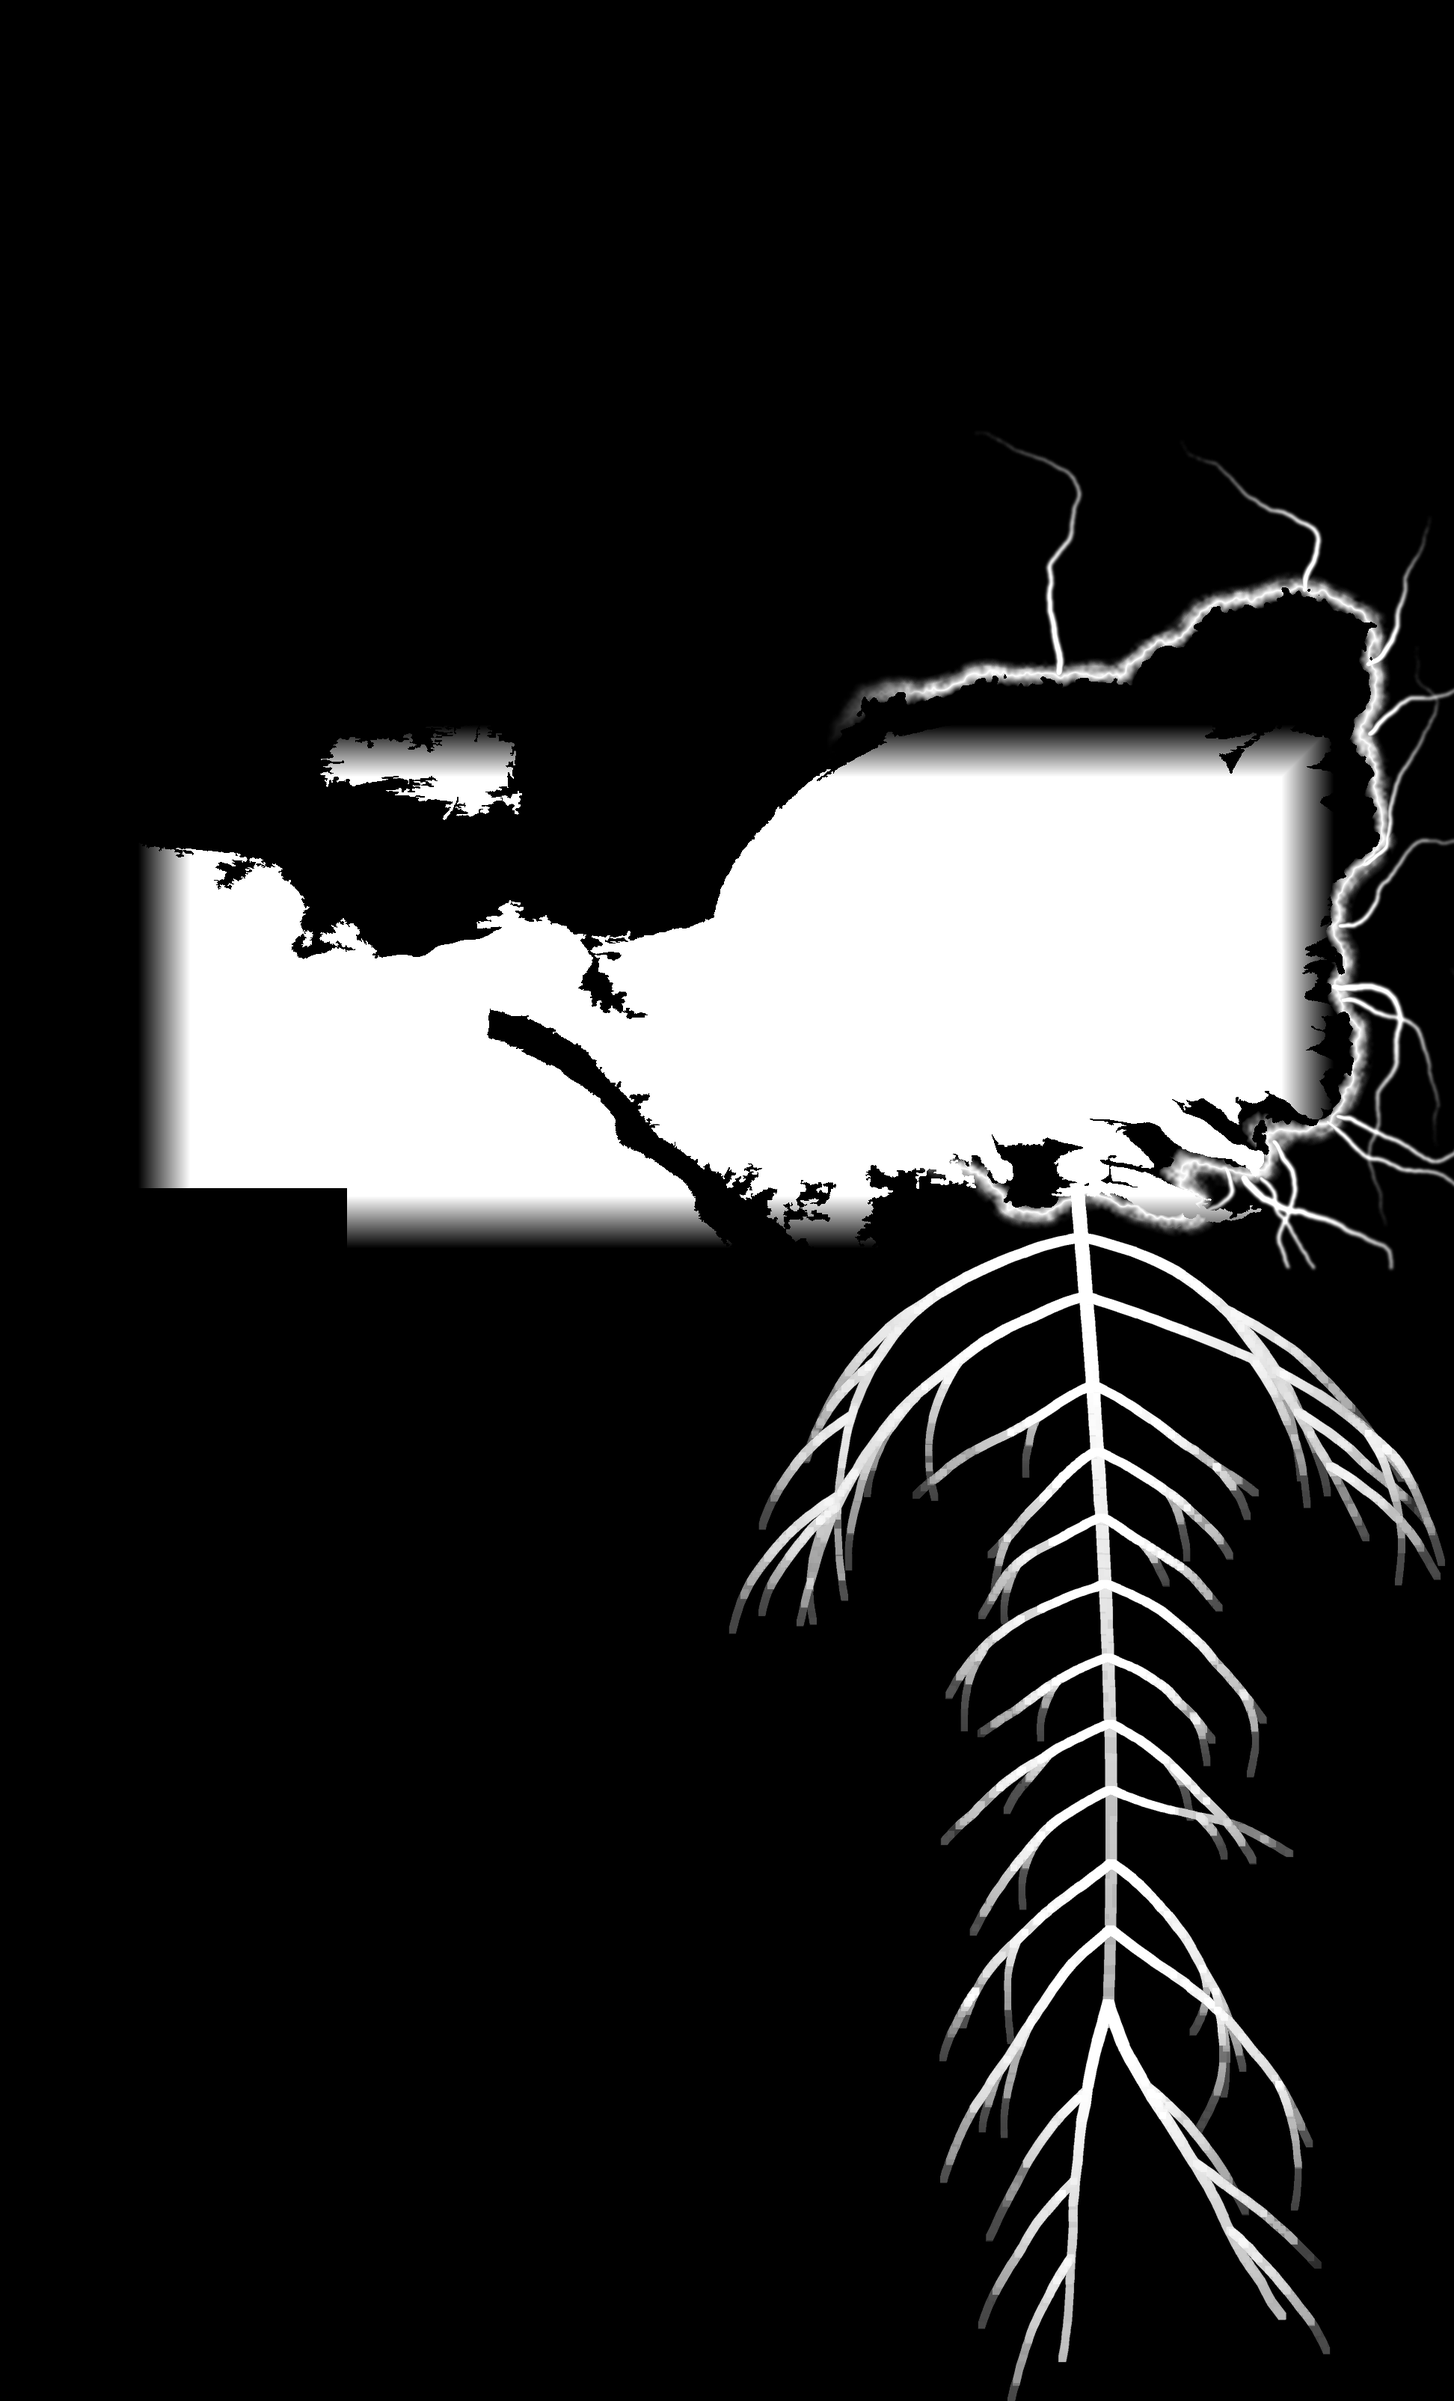
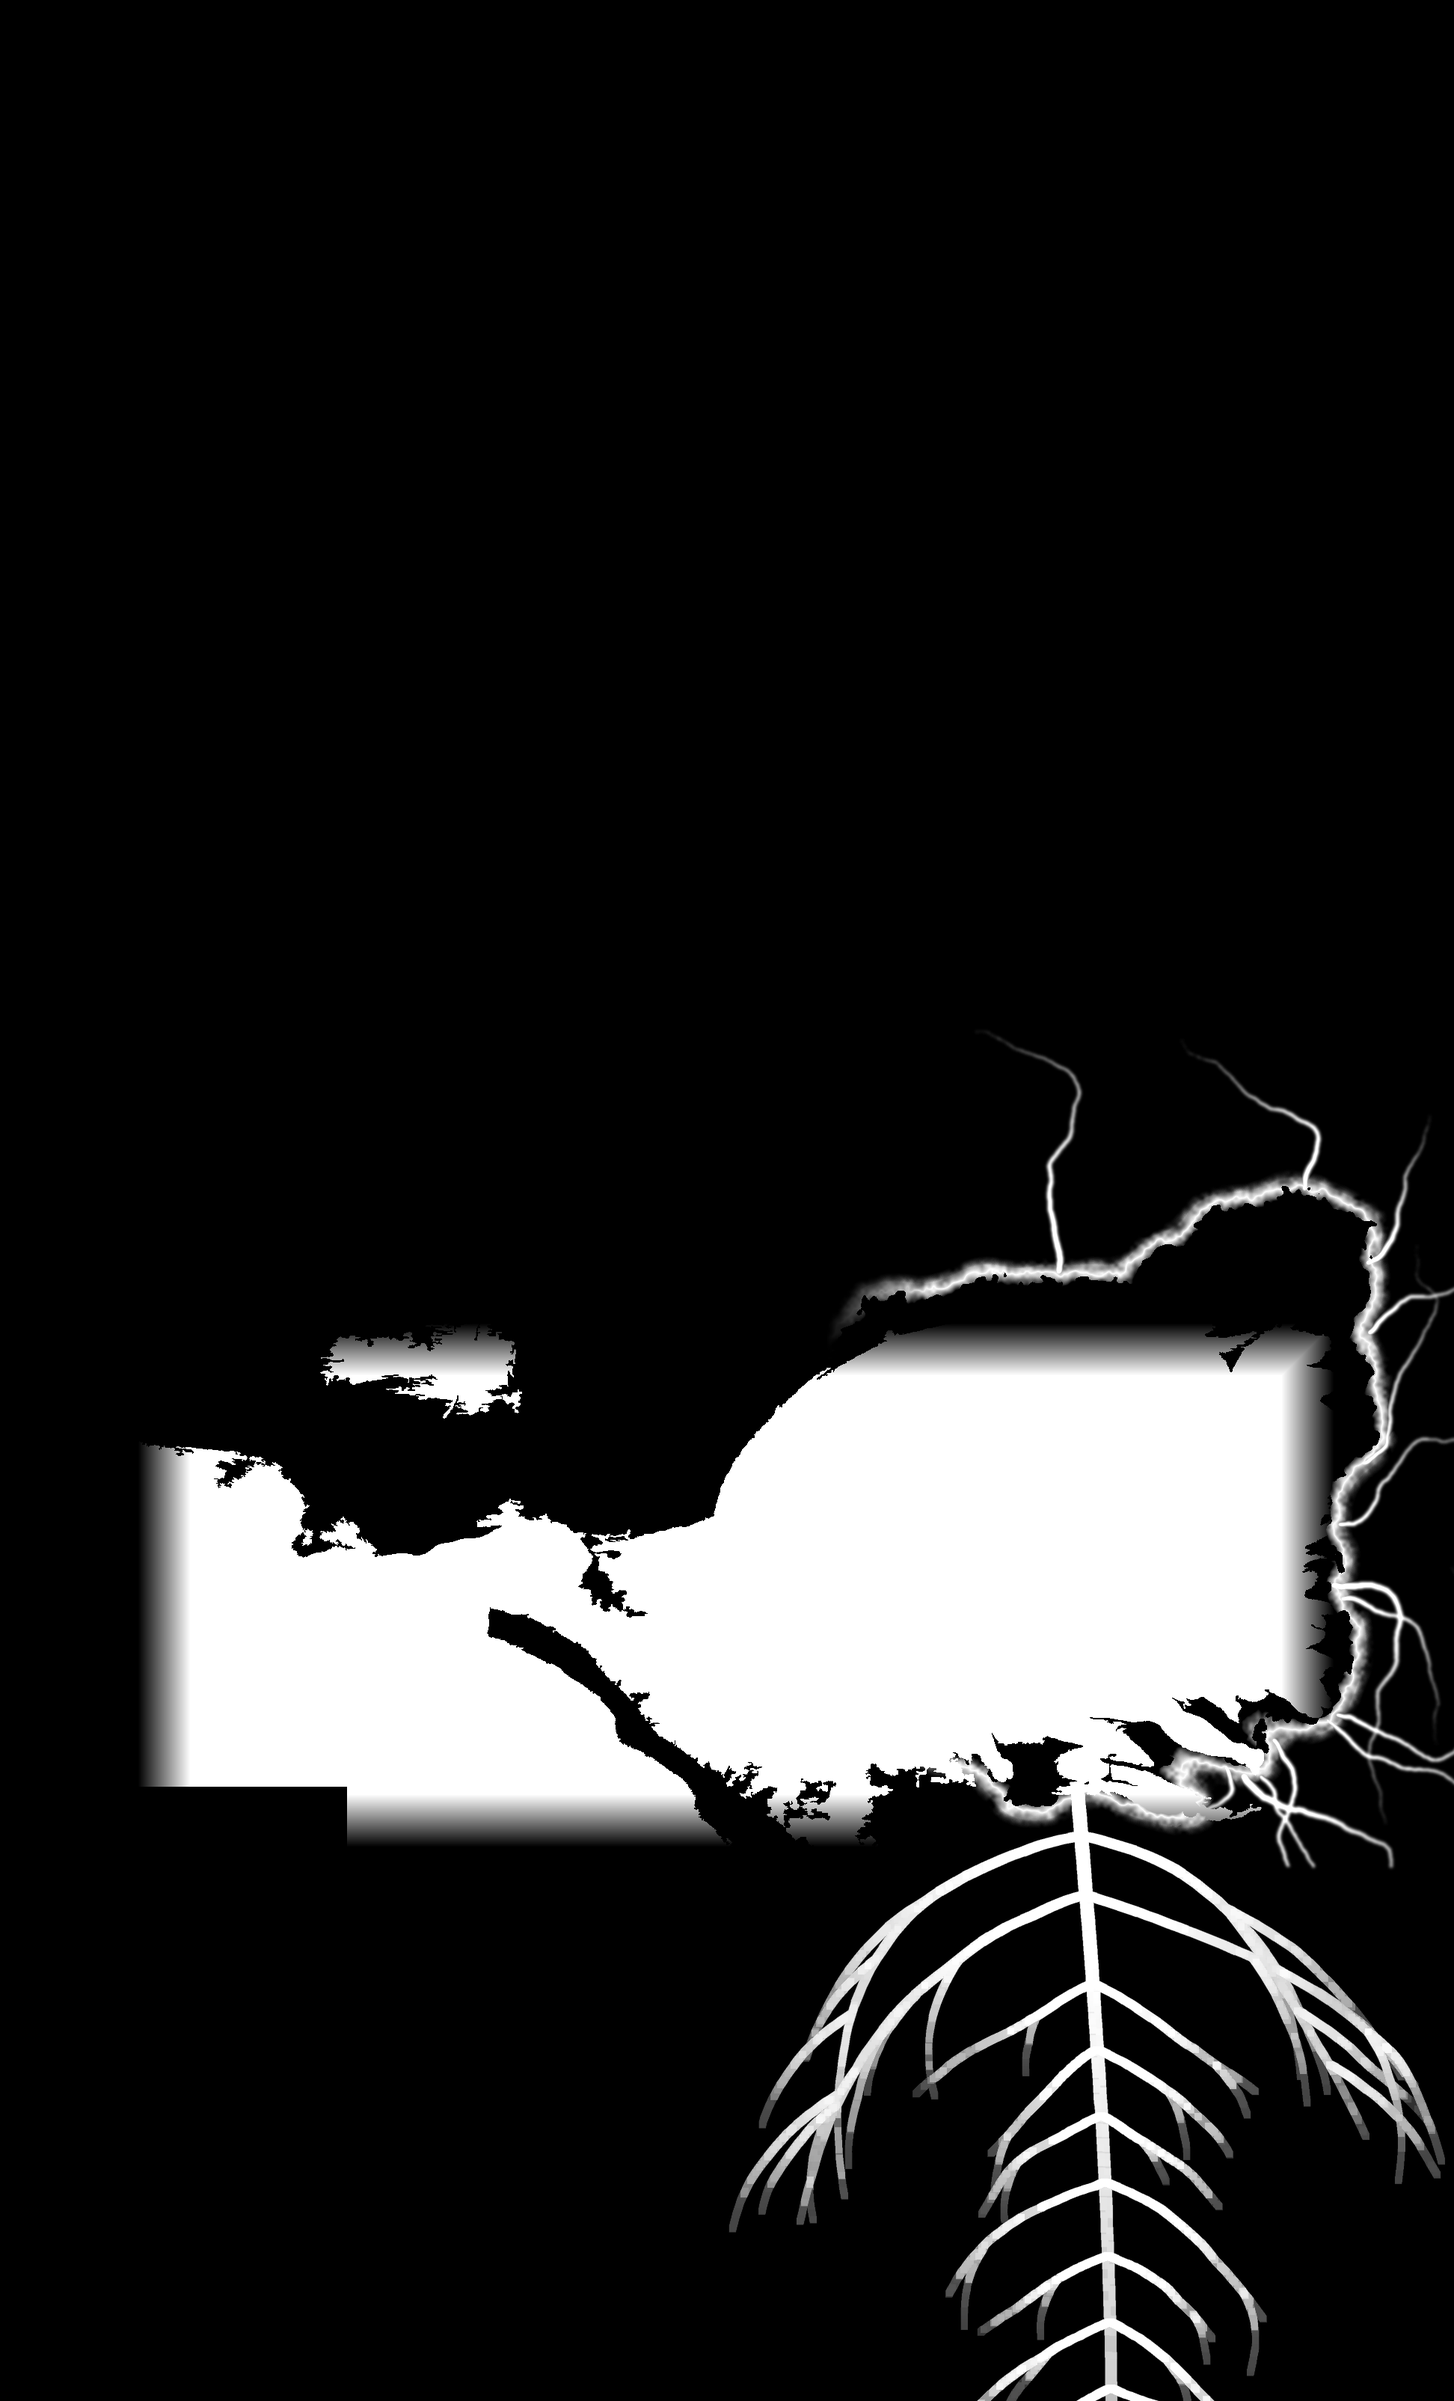
Phone day recomposed as Michelangelo would for a tall frame
The fresco is lowered and heaven is grown above it (God comes out of the sky,
as on the ceiling); below there is only Adam's own earth, the dark green-umber
hill continued, carrying the fresco's plaster grain. Masks, the rift map and
scene points moved with the picture. The valley double image is gone; desktop
is back to the plain earth. flow.py gains NOPLASTER (clouds are not plaster).

Changed region(s): [[0.0926, 0.187, 1.0, 1.0], [0.216, 0.2805, 0.3704, 0.3428]]

diff --git a/public/main.js b/public/main.js
@@ -45,8 +45,8 @@ const load = src => new Promise((res, rej) => { const i = new Image(); i.onload 
 // each picture is one painting grown past Michelangelo's frame; wide and tall screens are cut from it around its focus
 const shape = innerWidth / innerHeight >= .8 ? 'wide' : 'tall';
 if (!gl) { root.classList.add('no-gl'); ready(); }
-else fetch('/img/scene.json?v=1792044236').then(r => r.json()).then(meta =>
-  Promise.all([shape === 'wide' ? 'night-wide' : 'night', shape === 'wide' ? 'night-wide-flow' : 'night-flow', shape === 'wide' ? 'day' : 'day-tall', shape === 'wide' ? 'day-flow' : 'day-tall-flow', shape === 'wide' ? 'supper' : 'supper-tall', shape === 'wide' ? 'supper-flow' : 'supper-tall-flow', shape === 'wide' ? 'day-rift' : 'day-tall-rift', shape === 'wide' ? 'supper-aura' : 'supper-tall-aura', shape === 'wide' ? 'day-nerves' : 'day-tall-nerves'].map(n => load(`/img/${n}.webp?v=1792044236`)))
+else fetch('/img/scene.json?v=1792142939').then(r => r.json()).then(meta =>
+  Promise.all([shape === 'wide' ? 'night-wide' : 'night', shape === 'wide' ? 'night-wide-flow' : 'night-flow', shape === 'wide' ? 'day' : 'day-tall', shape === 'wide' ? 'day-flow' : 'day-tall-flow', shape === 'wide' ? 'supper' : 'supper-tall', shape === 'wide' ? 'supper-flow' : 'supper-tall-flow', shape === 'wide' ? 'day-rift' : 'day-tall-rift', shape === 'wide' ? 'supper-aura' : 'supper-tall-aura', shape === 'wide' ? 'day-nerves' : 'day-tall-nerves'].map(n => load(`/img/${n}.webp?v=1792142939`)))
     .then(ims => paint(gl, ims, meta[shape])))
   .catch(e => { console.error(String(e && e.message || e)); root.classList.add('no-gl'); ready(); });   // log, then fall back
 

diff --git a/public/index.html b/public/index.html
@@ -19,7 +19,7 @@
 <link rel="preconnect" href="https://fonts.googleapis.com">
 <link rel="preconnect" href="https://fonts.gstatic.com" crossorigin>
 <link rel="stylesheet" href="https://fonts.googleapis.com/css2?family=Cinzel:wght@400;500&family=Cormorant+Garamond:ital,wght@0,300;0,400;1,300;1,400&display=swap">
-<link rel="stylesheet" href="/style.css?v=1792044236">
+<link rel="stylesheet" href="/style.css?v=1792142939">
 <script>document.documentElement.classList.add('js')</script>
 </head>
 <body>
@@ -85,6 +85,6 @@
 
 
 <noscript><style>.reveal,.reveal-words,.display .line>span{opacity:1!important;transform:none!important}</style></noscript>
-<script type="module" src="/main.js?v=1792044236"></script>
+<script type="module" src="/main.js?v=1792142939"></script>
 </body>
 </html>

diff --git a/tools/newtall.py b/tools/newtall.py
@@ -1,0 +1,56 @@
+# The phone Creation of Adam recomposed as Michelangelo would for a tall frame: the fresco lowered, heaven grown above
+# it, and below only Adam's own earth: the dark green-umber hill with its blue-grey rim, sweeping down to the right.
+import sys, gc, numpy as np, torch
+from PIL import Image, ImageDraw, ImageFilter
+from diffusers import StableDiffusionXLInpaintPipeline
+D, seed = int(sys.argv[1]), int(sys.argv[2]); out = sys.argv[3]
+old = np.asarray(Image.open('aiv/day-tall-before-illusion.png').convert('RGB'), np.float32); H, W = old.shape[:2]
+fig0 = np.asarray(Image.open('/Users/f/Sites/foundation/src/masks/day-tall-figures-rift.png').convert('L').resize((W, H)), np.float32) / 255
+N = np.zeros_like(old); N[D:] = old[:H - D]; fig = np.zeros((H, W), np.float32); fig[D:] = fig0[:H - D]
+yy, xx = np.mgrid[0:H, 0:W].astype(np.float32); rng = np.random.default_rng(seed)
+# top: the old sky reflected upward as a starting point
+N[:D] = N[D:2 * D][::-1]
+# bottom: Adam's hill continued
+def spline(pts, n=500):
+    p = np.array(pts, np.float32); t = np.linspace(0, len(p) - 1, n); i = np.minimum(t.astype(int), len(p) - 2); f = (t - i)[:, None]
+    f = f * f * (3 - 2 * f); return [tuple(q) for q in p[i] * (1 - f) + p[i + 1] * f]
+y0 = 1600 + D
+cont = spline([(-50, y0 - 40), (450, y0), (990, y0 - 10), (1300, y0 + 170), (1650, y0 + 390), (1990, y0 + 500)])
+m = Image.new('L', (W, H), 0); ImageDraw.Draw(m).polygon(cont + [(1990, H + 50), (-50, H + 50)], fill=255)
+hill = np.asarray(m.filter(ImageFilter.GaussianBlur(3)), np.float32) / 255
+rim = np.asarray(m.filter(ImageFilter.GaussianBlur(26)), np.float32) / 255; rim = np.clip(1 - np.abs(rim - .5) * 2.2, 0, 1) * (yy > y0 + 20)
+DARK, UMBER, GREEN, BLUE, HAZE = map(lambda c: np.array(c, np.float32), ([78, 68, 48], [118, 104, 72], [118, 140, 86], [128, 140, 150], [214, 206, 184]))
+v = np.clip((yy - y0) / 600, 0, 1)[..., None]; lr = np.clip(1 - xx / 1500, 0, 1)[..., None]
+light = np.clip(np.sin(xx / 330 + yy / 520) * .5 + .5, 0, 1)[..., None] * lr     # broad lit planes, upper left
+earth = (UMBER * (1 - v) + DARK * v) * (1 - light * .75) + GREEN * light * .75
+earth += (rng.random((H, W, 1)) - .5) * 16
+land = np.clip((yy - (1590 + D)) / 80, 0, 1) * (1 - np.asarray(Image.fromarray((fig * 255).astype(np.uint8)).filter(ImageFilter.MaxFilter(15)).filter(ImageFilter.GaussianBlur(6)), np.float32) / 255)
+bg = HAZE * (1 - np.clip((yy - y0) / 1500, 0, .3))[..., None] + (rng.random((H, W, 1)) - .5) * 8
+S = bg * (1 - hill[..., None]) + earth * hill[..., None]
+S = S * (1 - rim[..., None] * .8) + BLUE * rim[..., None] * .8
+S = np.asarray(Image.fromarray(np.clip(S, 0, 255).astype(np.uint8)).filter(ImageFilter.GaussianBlur(2)), np.float32)
+N = N * (1 - land[..., None]) + S * land[..., None]
+Image.fromarray(np.clip(N, 0, 255).astype(np.uint8)).resize((486, round(486 * H / W))).save(out.replace('.png', '-sketch.jpg'), quality=85)
+pipe = StableDiffusionXLInpaintPipeline.from_pretrained("diffusers/stable-diffusion-xl-1.0-inpainting-0.1", torch_dtype=torch.float16, variant="fp16").to("mps")
+pipe.enable_attention_slicing(); pipe.vae.enable_tiling()
+gw, gh = 704, round(704 * H / W / 8) * 8
+NEG = ("people, person, figure, body, face, nude, cherub, angel, bird, animal, tree, village, building, road, river, text, signature, "
+       "writing, letters, watermark, frame, border, photo, 3d render, cartoon, airbrush, smooth gradient, blurry")
+def run(img, mask, prompt, strength, sd):
+    r = pipe(prompt=prompt, negative_prompt=NEG, image=Image.fromarray(np.clip(img, 0, 255).astype(np.uint8)).resize((gw, gh), Image.LANCZOS),
+             mask_image=Image.fromarray((mask * 255).astype(np.uint8)).resize((gw, gh), Image.LANCZOS), width=gw, height=gh,
+             num_inference_steps=36, guidance_scale=7.5, strength=strength, generator=torch.Generator("cpu").manual_seed(sd)).images[0]
+    gc.collect(); torch.mps.empty_cache(); return np.asarray(r.resize((W, H), Image.LANCZOS), np.float32)
+# heaven above: grown sky, clouds and light
+top = np.clip((D + 120 - yy) / 160, 0, 1) * (1 - np.clip(fig * 4, 0, 1))
+g = run(N, top, "High Renaissance fresco painting of the heavens: a deep blue sky with great luminous rolling clouds, warm light "
+                "breaking through from above, chalky matte fresco texture, masterpiece", .97, seed)
+N = N * (1 - top[..., None]) + g * top[..., None]
+# Adam's earth below
+g = run(N, land, "High Renaissance fresco painting, Sistine Chapel ceiling: a bare dark green and umber hillside of primordial earth "
+                 "with a blue grey edge, simple monumental forms, pale sky beyond, chalky matte fresco texture with fine cracks, masterpiece",
+        .68, seed + 1)
+N = N * (1 - land[..., None]) + g * land[..., None]
+F = Image.fromarray(np.clip(N, 0, 255).astype(np.uint8)); F.save(out)
+F.resize((486, round(486 * H / W))).save(out.replace('.png', '-s.jpg'), quality=85)
+print('saved', out, flush=True)

diff --git a/tools/finalize_tall.py b/tools/finalize_tall.py
@@ -1,0 +1,56 @@
+# Finishes nt-3b into src/grown/day-tall.png: model edge rows, fresco plaster grain in the new earth, a stray cloud wisp.
+import numpy as np
+from PIL import Image, ImageFilter
+D = 800
+a = np.asarray(Image.open('/Users/f/outpaint/aiv/nt-3b.png').convert('RGB'), np.float32).copy(); H, W = a.shape[:2]
+a[:50] = a[50:100][::-1]; a[-30:] = a[-60:-30][::-1]
+fr = Image.open('/Users/f/Sites/foundation/src/michelangelo-adam.jpg').convert('L').crop((560, 40, 1680, 560))
+fr = np.asarray(fr.resize((W, round(fr.height * W / fr.width))), np.float32)
+hp = fr - np.asarray(Image.fromarray(fr.astype(np.uint8)).filter(ImageFilter.GaussianBlur(6)), np.float32)
+tile = np.vstack([hp, hp[:, ::-1], hp[::-1], hp[::-1, ::-1]])
+fig = np.asarray(Image.open('/Users/f/Sites/foundation/src/masks/day-tall-figures-rift.png').convert('L'), np.float32) / 255
+y0 = 1600 + D - 100
+k = np.zeros((H, W), np.float32); k[y0:] = np.clip((np.arange(H - y0) / 100.), 0, 1)[:, None]
+k *= 1 - np.clip(np.asarray(Image.fromarray((fig * 255).astype(np.uint8)).filter(ImageFilter.MaxFilter(15)).filter(ImageFilter.GaussianBlur(6)), np.float32) / 255 * 3, 0, 1)
+g = np.zeros((H, W), np.float32); g[y0:] = tile[:H - y0]; a += (g * k * .5)[..., None]
+# the wisp under the cloud tip: pale pixels that are not the cloud body -> sky blue
+br = a[..., 2] - a[..., 0]; bx = (slice(1200, 1360), slice(660, 920))
+wisp = np.zeros(a.shape[:2], bool); wisp[bx] = ((br > 5) & (br < 85))[bx]      # pale blue: neither sky (very blue) nor cloud (warm)
+m = np.asarray(Image.fromarray((wisp * 255).astype(np.uint8)).filter(ImageFilter.MaxFilter(5)).filter(ImageFilter.GaussianBlur(3)), np.float32) / 255
+blue = a[1350:1380, 700:900].reshape(-1, 3).mean(0)
+a = a * (1 - m[..., None]) + blue * m[..., None]
+Image.fromarray(np.clip(a, 0, 255).astype(np.uint8)).save('/Users/f/Sites/foundation/src/grown/day-tall.png')
+Image.fromarray(np.clip(a, 0, 255).astype(np.uint8)).crop((600, 1180, 1000, 1380)).resize((800, 400)).save('/Users/f/outpaint/aiv/wisp.png')
+# the old grey patch on the cloud tip -> the cloud's colour just right of it
+a = np.asarray(Image.open('/Users/f/Sites/foundation/src/grown/day-tall.png').convert('RGB'), np.float32).copy()
+c = a[1236:1262, 772:790].reshape(-1, 3).mean(0)
+k = np.zeros(a.shape[:2], np.float32); k[1234:1262, 736:768] = 1
+k = np.asarray(Image.fromarray((k * 255).astype(np.uint8)).filter(ImageFilter.GaussianBlur(4)), np.float32) / 255
+k *= (a[..., 2] - a[..., 0] < 60)                                    # never over sky
+a = a * (1 - k[..., None]) + c * k[..., None]
+Image.fromarray(np.clip(a, 0, 255).astype(np.uint8)).save('/Users/f/Sites/foundation/src/grown/day-tall.png')
+# a thin cloud tail reaching into open sky: one big stroke lands on it and paints a lone white blade
+a = np.asarray(Image.open('/Users/f/Sites/foundation/src/grown/day-tall.png').convert('RGB'), np.float32).copy()
+br = a[..., 2] - a[..., 0]; t = np.zeros(a.shape[:2], np.float32)
+t[1095:1195, 360:540] = (br[1095:1195, 360:540] < 90)
+t[1095:1195, 500:540] *= np.linspace(1, 0, 40)[None, :]               # fade into the cloud body
+t = np.asarray(Image.fromarray((t * 255).astype(np.uint8)).filter(ImageFilter.MaxFilter(5)).filter(ImageFilter.GaussianBlur(3)), np.float32) / 255
+sky = a[1200:1240, 360:540].reshape(-1, 3).mean(0)
+a = a * (1 - t[..., None]) + sky * t[..., None]
+Image.fromarray(np.clip(a, 0, 255).astype(np.uint8)).save('/Users/f/Sites/foundation/src/grown/day-tall.png')
+Image.fromarray(np.clip(a, 0, 255).astype(np.uint8)).crop((300, 1050, 600, 1250)).resize((600, 400)).save('/Users/f/outpaint/aiv/speck.png')
+# a lone sweep stroke from the left cloud lands out in the blue at ~(502,1308); give the cloud a rising curl there
+a = np.asarray(Image.open('/Users/f/Sites/foundation/src/grown/day-tall.png').convert('RGB'), np.float32).copy()
+Hh, Ww = a.shape[:2]; yy, xx = np.mgrid[0:Hh, 0:Ww].astype(np.float32)
+col = a[1440:1470, 400:440].reshape(-1, 3).mean(0)
+w = np.zeros((Hh, Ww), np.float32)
+for t in np.linspace(0, 1, 40):                                       # a curl from the bulge up and to the right
+    cx, cy = 460 + 90 * t + 20 * np.sin(t * 3), 1430 - 150 * t; r = 46 * (1 - .55 * t)
+    w = np.maximum(w, np.clip(1 - np.hypot(xx - cx, (yy - cy) * 1.3) / r, 0, 1))
+w = np.asarray(Image.fromarray((w * 255).astype(np.uint8)).filter(ImageFilter.GaussianBlur(10)), np.float32) / 255
+w = np.clip(w * 1.5, 0, .9)
+shade = np.clip((yy - 1300) / 160, 0, 1)[..., None] * .12                 # lit above, a little cooler below
+c = col * (1.04 - shade) + np.array([10, 14, 24.]) * shade
+a = a * (1 - w[..., None]) + c * w[..., None]
+Image.fromarray(np.clip(a, 0, 255).astype(np.uint8)).save('/Users/f/Sites/foundation/src/grown/day-tall.png')
+Image.fromarray(np.clip(a, 0, 255).astype(np.uint8)).crop((300, 1200, 700, 1520)).save('/Users/f/outpaint/aiv/curl.png')

diff --git a/tools/flow.py b/tools/flow.py
@@ -53,6 +53,8 @@ while q:
         ny, nx = y + dy, x + dx
         if 0 <= ny < H and 0 <= nx < Wd and cand[ny, nx] and not bgm[ny, nx]: bgm[ny, nx] = True; q.append((ny, nx))
 plaster = np.clip(blur(bgm.astype(np.float32), 2.0) * 1.3 - .15, 0, 1)
+import os
+if os.environ.get('NOPLASTER'): plaster *= 0          # a picture with no bare plaster left (clouds are not plaster)
 print('plaster', round(float(plaster.mean()), 2))
 # B: coherence in the upper half, plaster in the lower (B < .5 means plaster, by how much)
 B = np.where(plaster > .5, .5 - .5 * plaster, .5 + .5 * coh)
